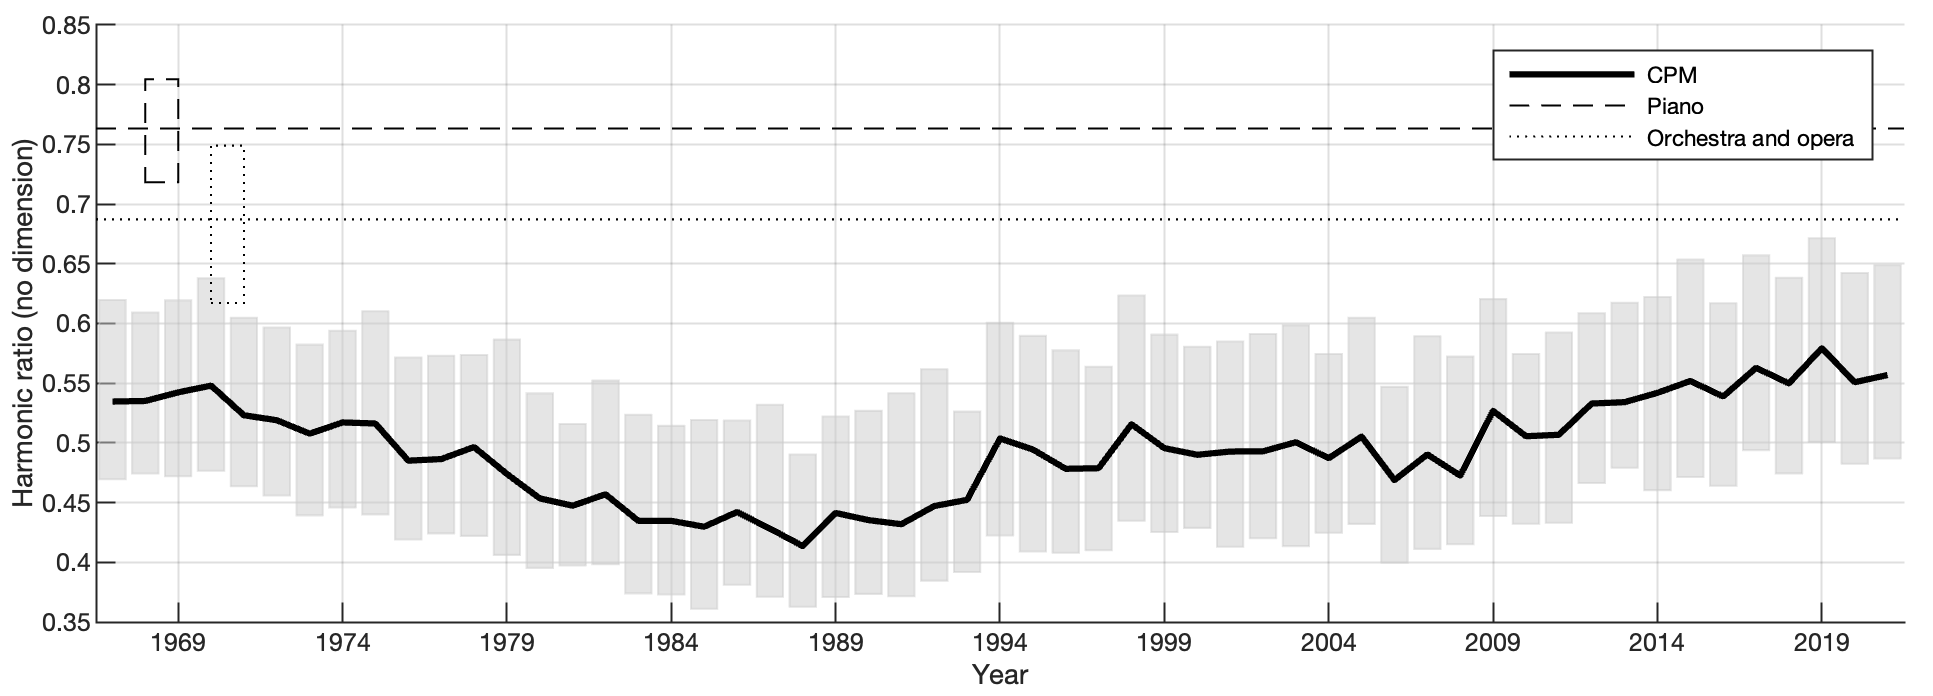
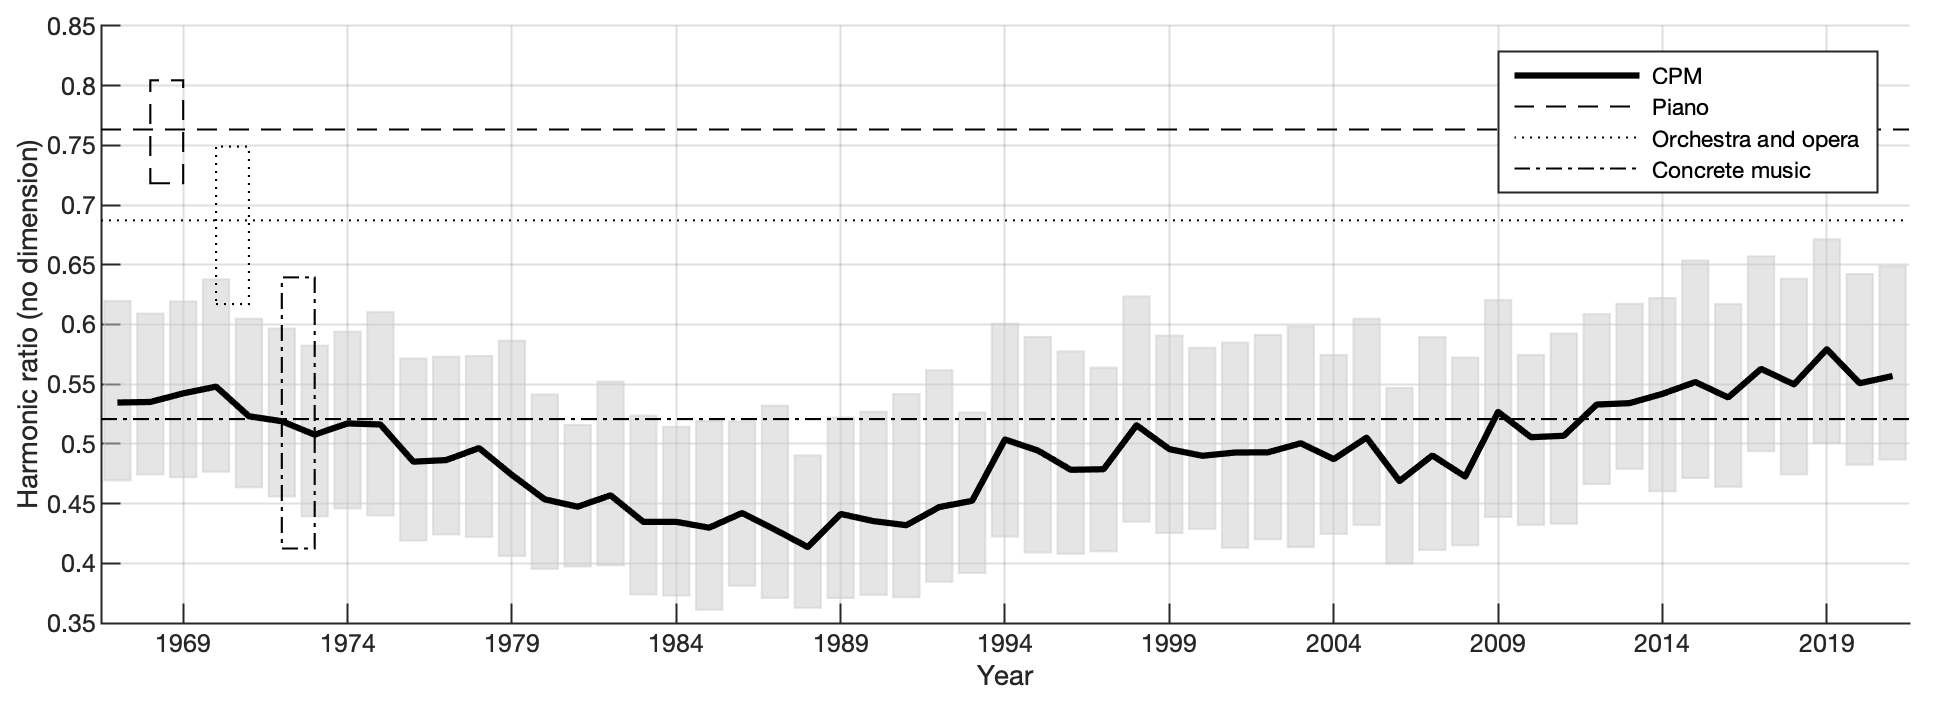
aa

diff --git a/docs/index.html b/docs/index.html
@@ -66,7 +66,7 @@ If the values attributed to the single frequencies or compounds follow a differe
               <td><img src="imgs/harmonic_ratio_upload.png" width="400" height="148" alt=""/></td>
               <td><p>Minimum at the end of the '80s.<br>
               Generally lower than piano and orchestra. </p>
-              <p>Include music concrète for lower bound.</p></td>
+              <p>Amount of periodicity comparable to <em>musique concrète</em>, which is produced with the same methods and absence of constraints linked to the resources of the performance.</p></td>
             </tr>
           </tbody>
       </table></td>
